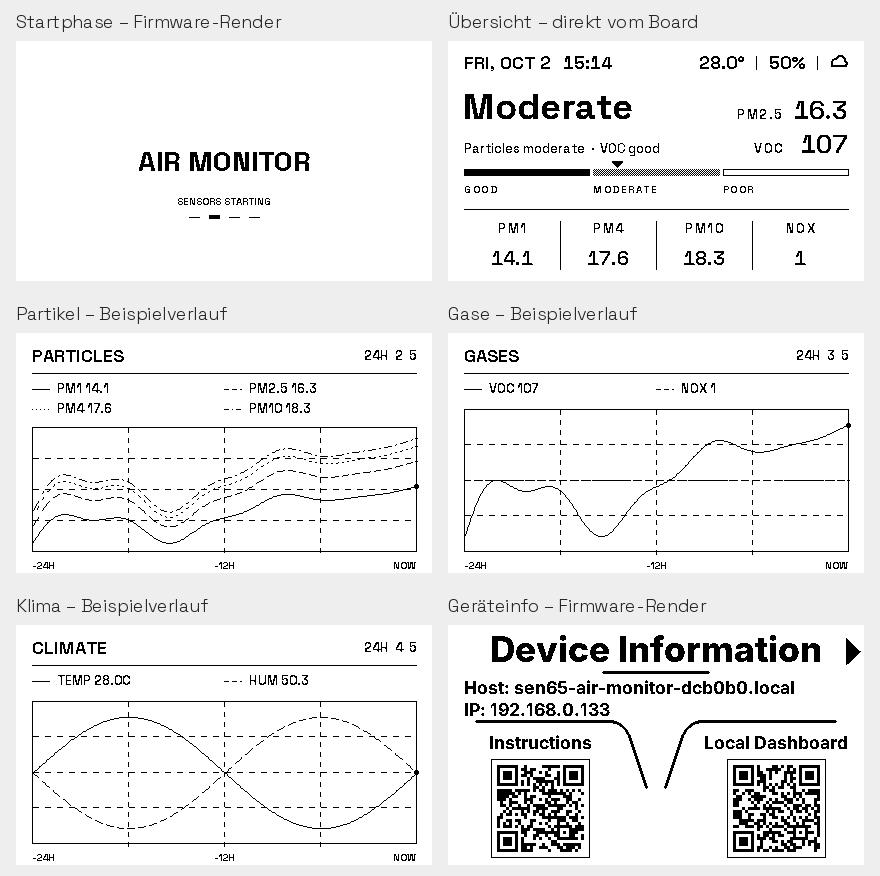
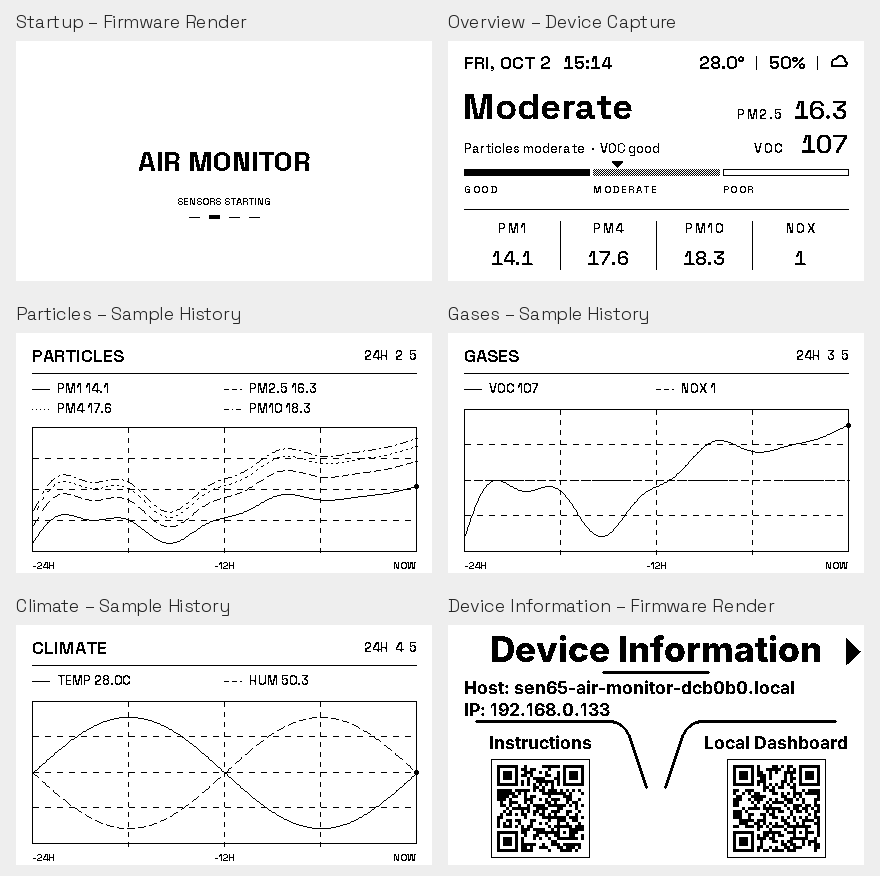
Use English throughout display previews

diff --git a/docs/display/index.html b/docs/display/index.html
@@ -1,9 +1,9 @@
 <!doctype html>
-<html lang="de">
+<html lang="en">
 <head>
   <meta charset="utf-8">
   <meta name="viewport" content="width=device-width,initial-scale=1">
-  <title>SEN65 Air Monitor – Displaylayouts</title>
+  <title>SEN65 Air Monitor – Display Layouts</title>
   <style>
     body { margin:0; padding:24px; background:#eee; color:#222; font-family:system-ui,sans-serif; }
     main { max-width:920px; margin:auto; }
@@ -17,15 +17,15 @@
 </head>
 <body>
   <main>
-    <h1>SEN65 Air Monitor – Displaylayouts</h1>
-    <p>Originale Firmware-Darstellung in 416 × 240 Pixeln. Die Übersicht stammt vom Gerät, die Graphen zeigen Beispielverläufe.</p>
+    <h1>SEN65 Air Monitor – Display Layouts</h1>
+    <p>Original firmware rendering at 416 × 240 pixels. The overview was captured from the device; the graphs show sample histories.</p>
     <div class="gallery">
-      <figure><figcaption>Startanimation</figcaption><img src="boot-animation.gif" width="416" height="240" alt="AIR MONITOR mit vier wechselnden Ladebalken"></figure>
-      <figure><figcaption>Übersicht</figcaption><img src="overview.png" width="416" height="240" alt="Luftstatus, PM2.5, VOC, Wetter und weitere Messwerte"></figure>
-      <figure><figcaption>Partikel</figcaption><img src="particles.png" width="416" height="240" alt="Gemeinsamer 24-Stunden-Graph für PM1, PM2.5, PM4 und PM10"></figure>
-      <figure><figcaption>Gase</figcaption><img src="gases.png" width="416" height="240" alt="Gemeinsamer 24-Stunden-Graph für VOC und NOx"></figure>
-      <figure><figcaption>Klima</figcaption><img src="climate.png" width="416" height="240" alt="Gemeinsamer 24-Stunden-Graph für Temperatur und Luftfeuchtigkeit"></figure>
-      <figure><figcaption>Geräteinformationen</figcaption><img src="info.png" width="416" height="240" alt="Hostname und IP-Adresse auf getrennten Zeilen sowie zwei QR-Codes"></figure>
+      <figure><figcaption>Startup Animation</figcaption><img src="boot-animation.gif" width="416" height="240" alt="AIR MONITOR with four alternating loading bars"></figure>
+      <figure><figcaption>Overview</figcaption><img src="overview.png" width="416" height="240" alt="Air quality status, PM2.5, VOC, weather, and additional readings"></figure>
+      <figure><figcaption>Particles</figcaption><img src="particles.png" width="416" height="240" alt="Combined 24-hour graph for PM1, PM2.5, PM4, and PM10"></figure>
+      <figure><figcaption>Gases</figcaption><img src="gases.png" width="416" height="240" alt="Combined 24-hour graph for VOC and NOx"></figure>
+      <figure><figcaption>Climate</figcaption><img src="climate.png" width="416" height="240" alt="Combined 24-hour graph for temperature and humidity"></figure>
+      <figure><figcaption>Device Information</figcaption><img src="info.png" width="416" height="240" alt="Hostname and IP address on separate lines, with two QR codes"></figure>
     </div>
   </main>
 </body>
